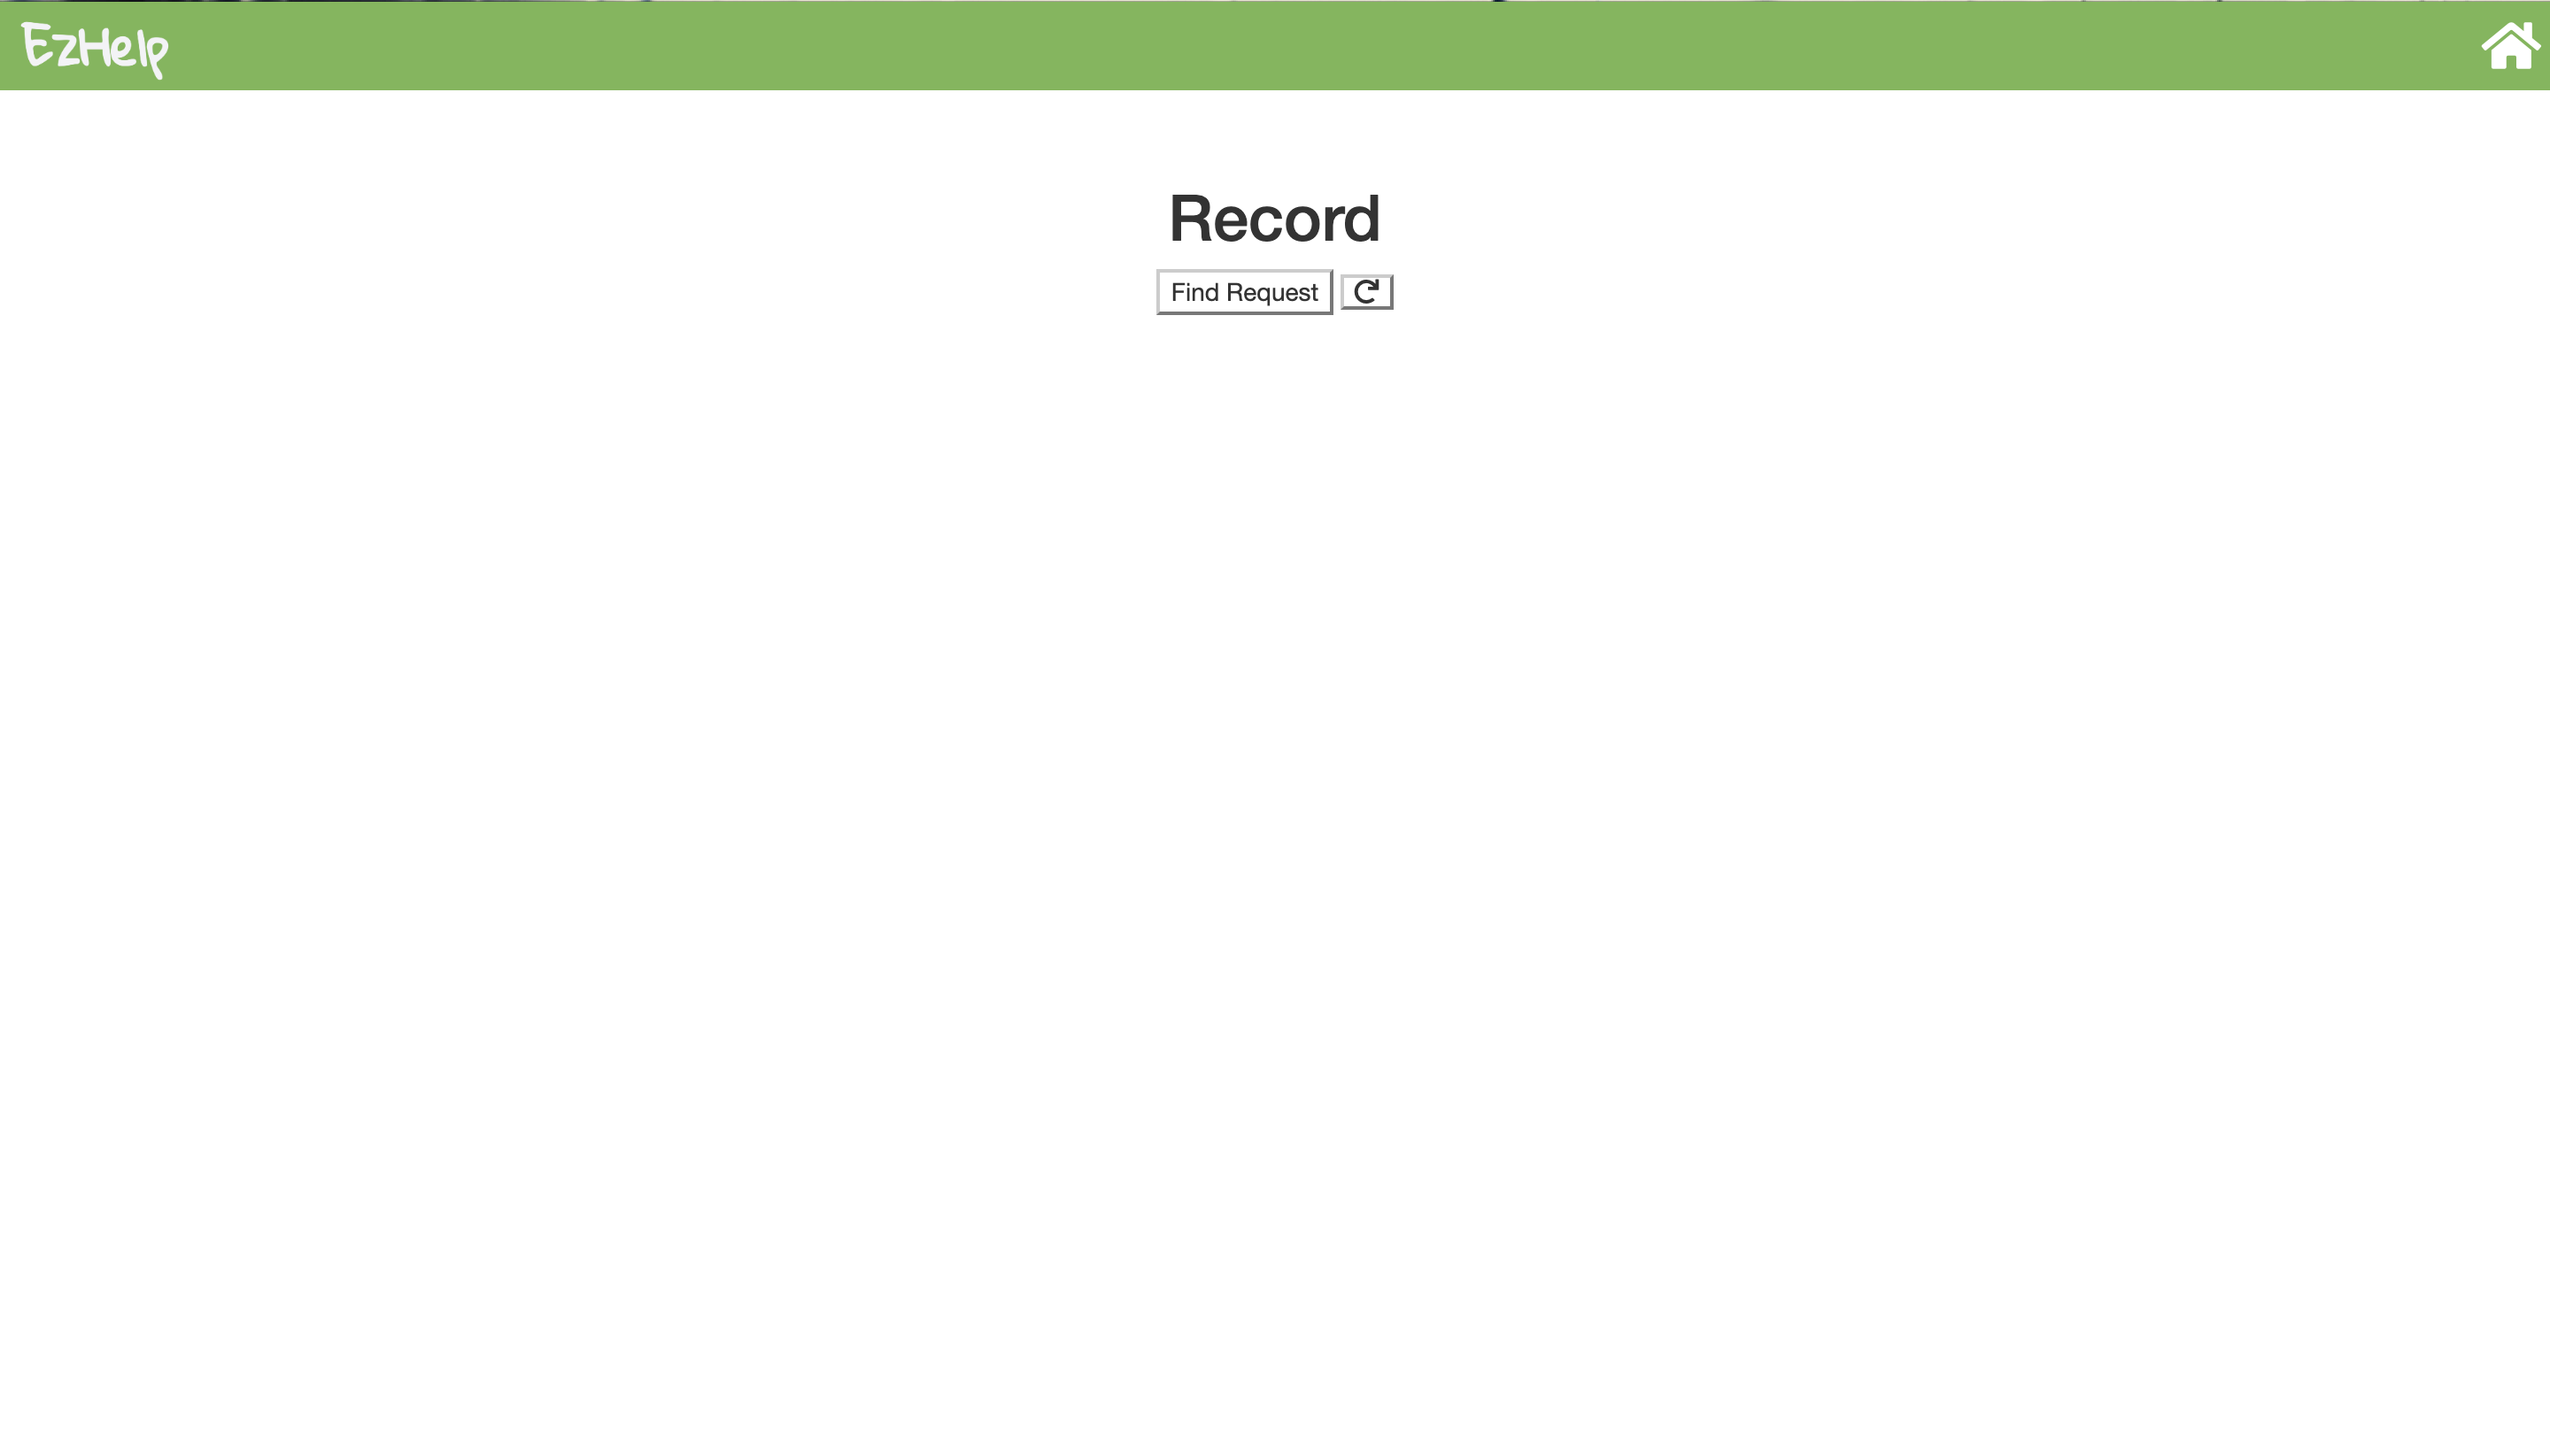
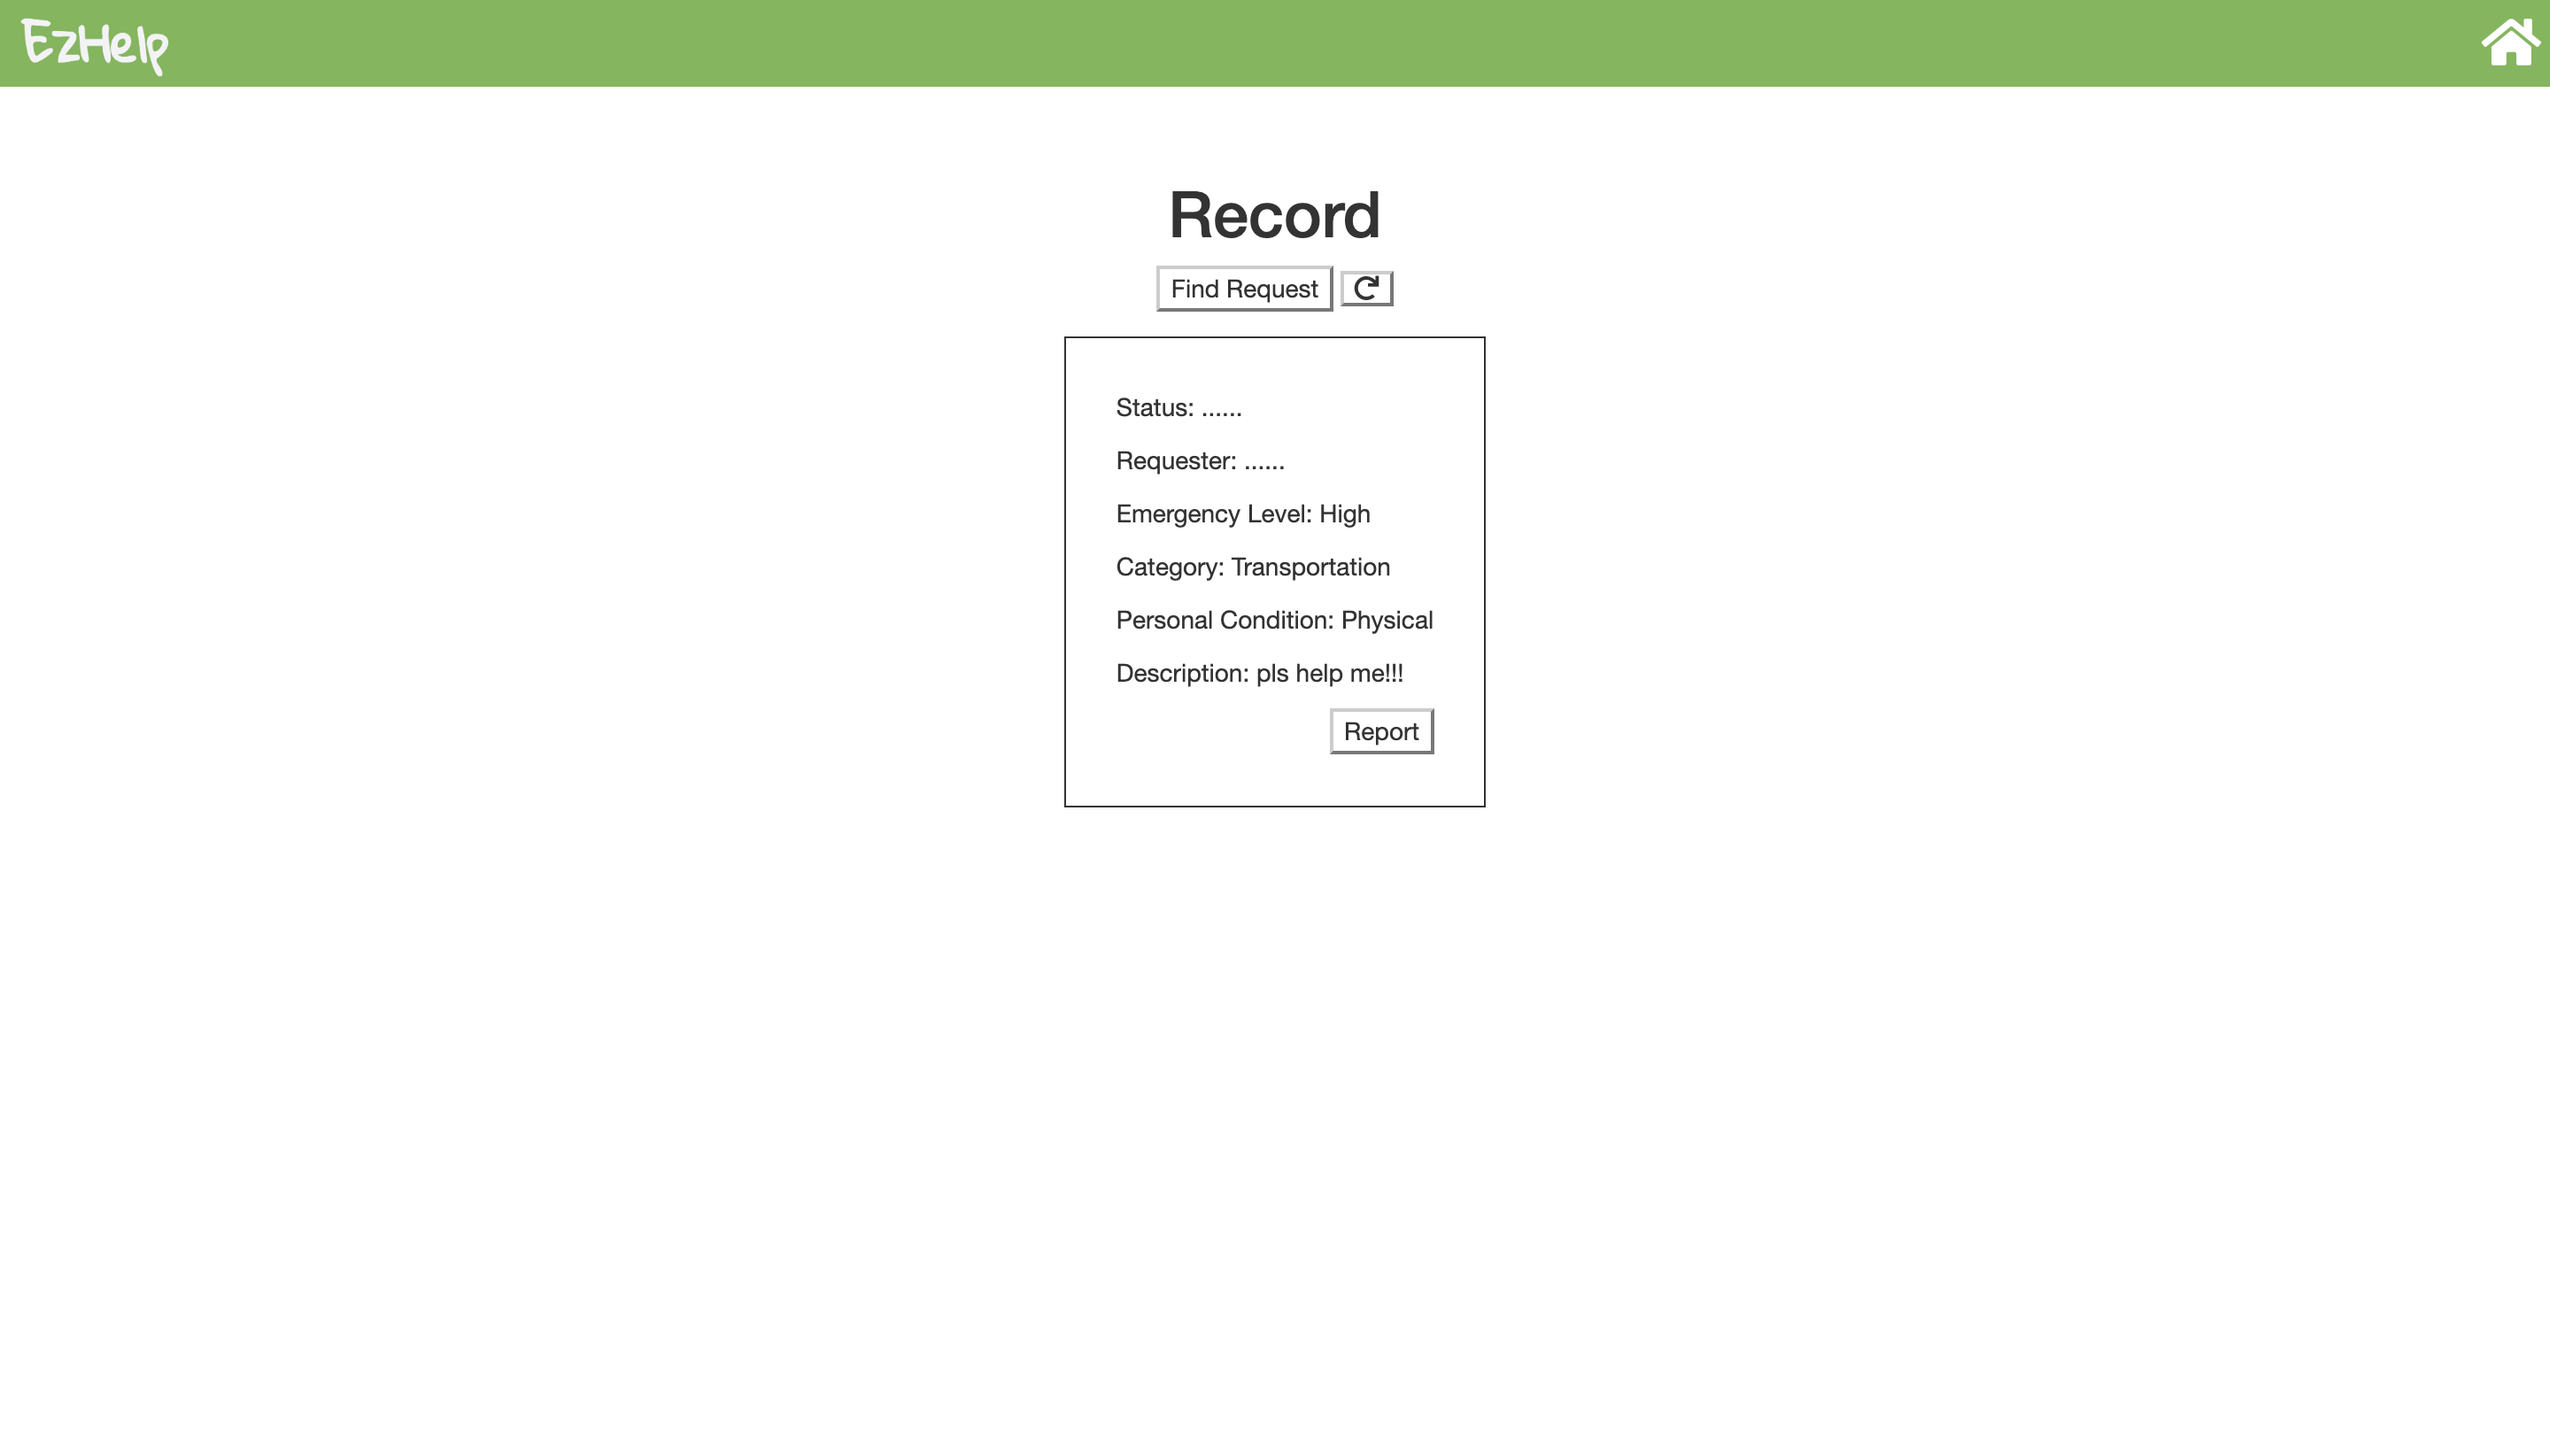
milestone 2 complete

diff --git a/milestone2.md b/milestone2.md
@@ -24,7 +24,7 @@ from the static files directory with functionalities (1.) to get all users from
   The front-end access the data from back-end via ajax calls and feed the infos
   back to the htmls.
 
-#### Front-end UI Skeletons:
+#### Front-end UI Skeletons (Users can always navigate back to home by clicking the home button at upper right and the logo):
 
 ##### Home Page
   ![Homepage 1](images/Milestone2/homepage.png)  
@@ -40,3 +40,14 @@ from the static files directory with functionalities (1.) to get all users from
   ![v_taskinfo1](images/Milestone2/v_taskinfo1.png)
   ![v_record](images/Milestone2/v_record.png)
   ![v_report](images/Milestone2/v_report.png)
+
+##### If login as a requester, navigate to requester sections of files
+  ![r_record](images/Milestone2/r_record.png)
+  ![r_request](images/Milestone2/r_request.png)
+  ![r_waiting](images/Milestone2/r_waiting.png)
+  ![r_matched](images/Milestone2/r_matched.png)
+  ![r_finished1](images/Milestone2/r_finished1.png)
+  ![r_finished](images/Milestone2/r_finished.png)
+
+### Comparing to original papaer prototypes:
+  Most functionalities are identical to our original design, the only differences at this stage would be the alignments and aesthetic part of the whole thing.
